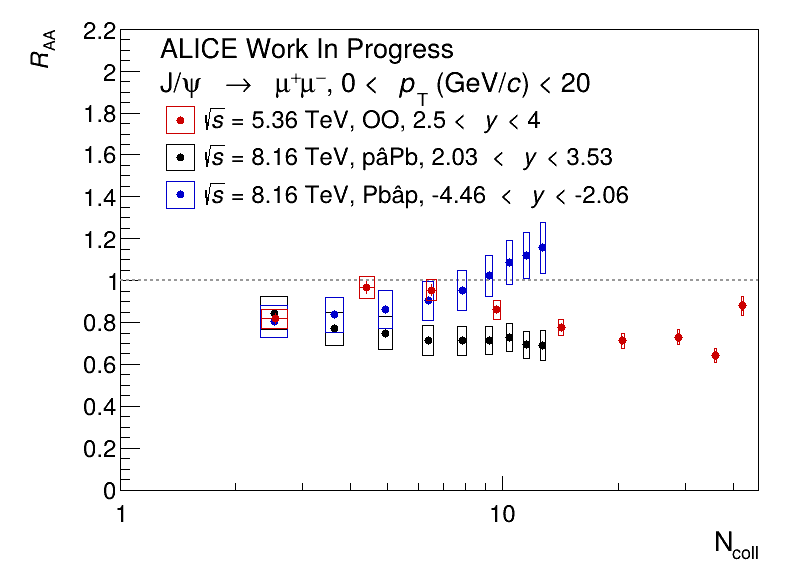
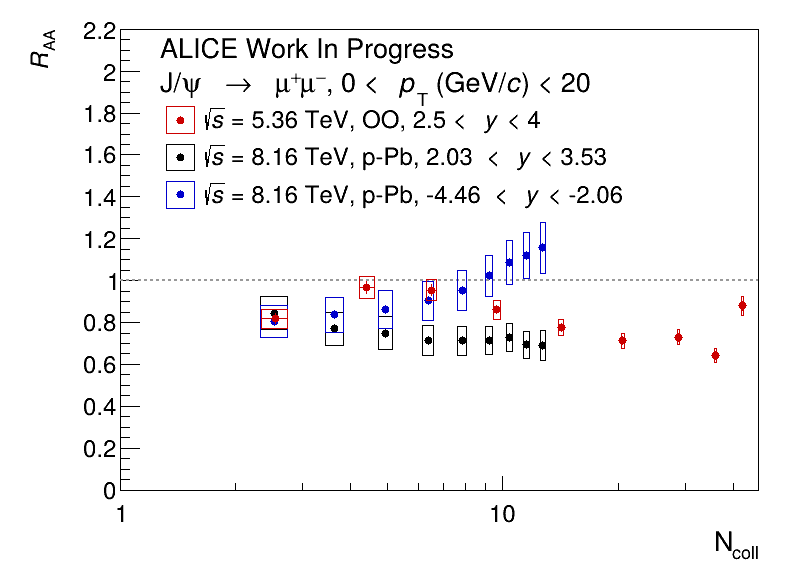
Inserisco i file per N_MB

Changed region(s): [[0.4511, 0.25, 0.782, 0.375]]

diff --git a/charmonia_production_pO_OO_NeNe/computeRaa.py b/charmonia_production_pO_OO_NeNe/computeRaa.py
@@ -327,8 +327,8 @@ def raa(config):
     SetLegend(legendRaaVsNColl_Comparison_pPb)
     legendRaaVsNColl_Comparison_pPb.SetTextSize(0.045)
     legendRaaVsNColl_Comparison_pPb.AddEntry(graStatRaaVsNcoll, "#sqrt{#it{s}} = 5.36 TeV, OO, 2.5 < #it{y} < 4", "FP")
-    legendRaaVsNColl_Comparison_pPb.AddEntry(graStatRaaVsNColl_020pT_pPb_pos_y, "#sqrt{#it{s}} = 8.16 TeV, p–Pb, 2.03  < #it{y} < 3.53", "FP")
-    legendRaaVsNColl_Comparison_pPb.AddEntry(graStatRaaVsNColl_020pT_pPb_neg_y, "#sqrt{#it{s}} = 8.16 TeV, Pb–p, -4.46  < #it{y} < -2.06", "FP")
+    legendRaaVsNColl_Comparison_pPb.AddEntry(graStatRaaVsNColl_020pT_pPb_pos_y, "#sqrt{#it{s}} = 8.16 TeV, p-Pb, 2.03  < #it{y} < 3.53", "FP")
+    legendRaaVsNColl_Comparison_pPb.AddEntry(graStatRaaVsNColl_020pT_pPb_neg_y, "#sqrt{#it{s}} = 8.16 TeV, p-Pb, -4.46  < #it{y} < -2.06", "FP")
     legendRaaVsNColl_Comparison_pPb.Draw("SAME")
 
     latexTitle.DrawLatex(0.20, 0.90, "ALICE Work In Progress")
@@ -419,7 +419,7 @@ def raa(config):
     SetLegend(legendRaaVsNpart_Comparison_PbPb)
     legendRaaVsNpart_Comparison_PbPb.SetTextSize(0.045)
     legendRaaVsNpart_Comparison_PbPb.AddEntry(graStatRaaVsNpart, "#sqrt{#it{s}} = 5.36 TeV, OO, 0 < #it{p}_{T} (GeV/#it{c}) < 20", "FP")
-    legendRaaVsNpart_Comparison_PbPb.AddEntry(graStatRaaVsNpart_0_8pT_PbPb, "#sqrt{#it{s}} = 5.02 TeV, p–Pb, 0.3 < #it{p}_{T} (GeV/#it{c}) < 8", "FP")
+    legendRaaVsNpart_Comparison_PbPb.AddEntry(graStatRaaVsNpart_0_8pT_PbPb, "#sqrt{#it{s}} = 5.02 TeV, Pb-Pb, 0.3 < #it{p}_{T} (GeV/#it{c}) < 8", "FP")
     legendRaaVsNpart_Comparison_PbPb.Draw("SAME")
 
     latexTitle.DrawLatex(0.20, 0.90, "ALICE Work In Progress")
@@ -428,7 +428,7 @@ def raa(config):
     canvasRaaVsNpart_Comparison_PbPb.SaveAs("plots/Jpsi_RAA_vs_Npart_Comparison_PbPb.pdf")
     canvasRaaVsNpart_Comparison_PbPb.SaveAs("plots/Jpsi_RAA_vs_Npart_Comparison_PbPb.png")
 
-
+    input()
 
     print("-------- Pt dependence --------")
 
@@ -689,7 +689,7 @@ def raa(config):
     legendRaaVsPtVsRun2_Comparison1.AddEntry(graStatRaaVsPt_4060, "#sqrt{#it{s}} = 5.02 TeV, Pb-Pb, 40#minus90%", "FP")
     legendRaaVsPtVsRun2_Comparison1.Draw("SAME")
 
-    latexTitle.DrawLatex(0.22, 0.90, "ALICE Work In Progress, J/#psi #rightarrow #mu^{#plus}#mu^{#minus}, 2.5 < #it{y} < 4")
+    latexTitle.DrawLatex(0.16, 0.90, "ALICE Work In Progress, J/#psi #rightarrow #mu^{#plus}#mu^{#minus}, 2.5 < #it{y} < 4")
     canvasRaaVsPt_Comparison1.Update()
     canvasRaaVsPt_Comparison1.SaveAs("plots/Jpsi_RAA_vs_Pt_Comparison_PbPb_3_centralities.pdf")
     canvasRaaVsPt_Comparison1.SaveAs("plots/Jpsi_RAA_vs_Pt_Comparison_PbPb_3_centralities.png")

diff --git a/charmonia_production_pO_OO_NeNe/normalization.C b/charmonia_production_pO_OO_NeNe/normalization.C
@@ -261,6 +261,8 @@ void get_normalization_from_single_file(string year = "2024", string period = "L
 
             const int centMin[] = { 0, 5,10,20,30,40,50,60,70, 0,  0}; 
             const int centMax[] = { 5,10,20,30,40,50,60,70,90,90,100}; 
+            //const int centMin[] = { 0,10,20,30,40,50,60, 0,  0}; 
+            //const int centMax[] = {10,20,30,40,50,60,90,90,100};
             int nCentBins = sizeof(centMin) / sizeof(int); 
 
             histRatioIntegralsCentrFT0C = new TH1D("histRatioIntegralsCentrFT0C", "Centrality Fractions;Centrality interval;Fraction", nCentBins, 0, nCentBins);
@@ -507,6 +509,7 @@ void check_normalization(string fInName = "LHC25ae_minBias_std_assoc_luminosity.
     double lumiMinBias2024StdAssoc = histLumiMinBias2024StdAssoc -> GetBinContent(histLumiMinBias2024StdAssoc -> GetXaxis() -> FindBin("luminosityBcSel"));
 
     const char* centLabels[] = {"0-5%","5-10%", "10-20%", "20-30%", "30-40%", "40-50%", "50-60%", "60-70%","70-90%", "0-90%", "0-100%"};
+    //const char* centLabels[] = {"0-10%", "10-20%", "20-30%", "30-40%", "40-50%", "50-60%", "60-90%","0-90%", "0-100%"};
     int nCentrBins = sizeof(centLabels)/sizeof(char*);
     std::vector<double> nEvtsBcSelCentr(nCentrBins);
     for (int i = 0; i < nCentrBins; i++) {
